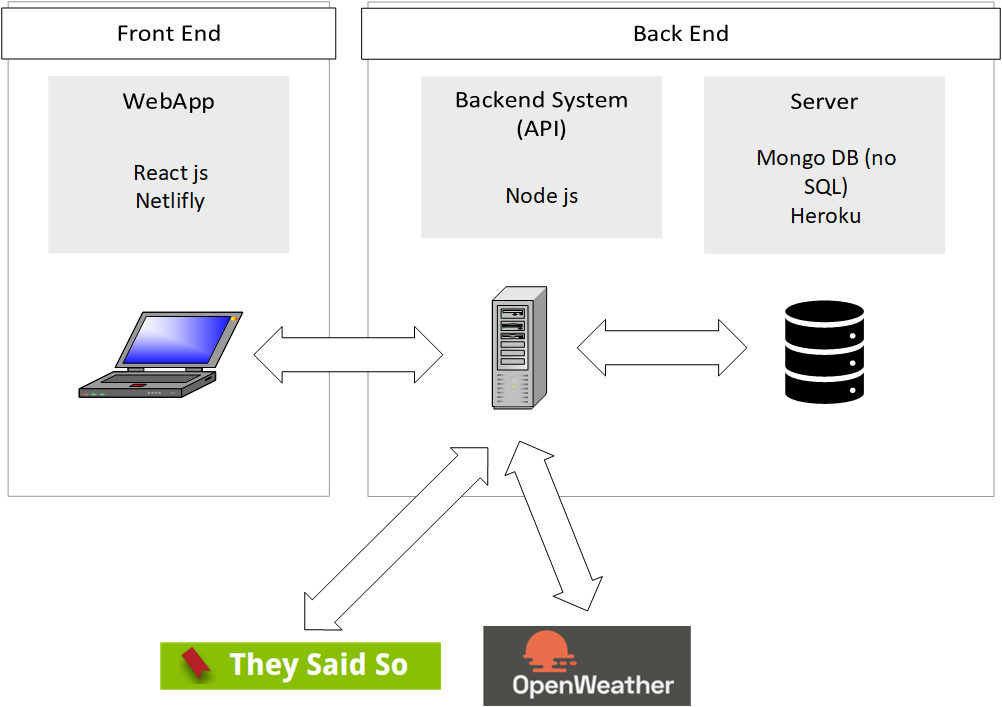
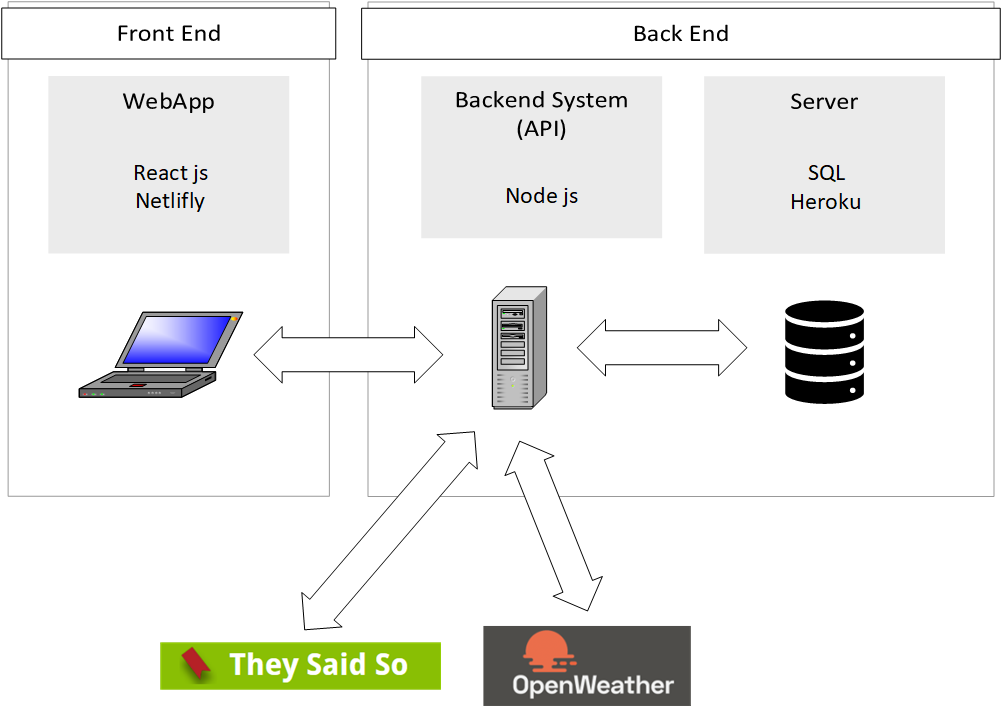
Change graphics readme and add mysql code

diff --git a/routes/index.js b/routes/index.js
@@ -12,42 +12,80 @@ router.get("/", function(req, res, next) {
 var superSecret = "costabrava";
 // route for authenticating users:
 router.post("/login", function(req, res, next) {
+  // store the inputs in variables easy to use:
   var name = req.body.userName;
   var password = req.body.userPassword;
+
   // find the user
-  db("SELECT * FROM user WHERE userName = (" + name + ") ;").then(result => {
-    res.send(result);
-  });
+  db("SELECT * FROM user WHERE userName = (" + name + ") ;").then(
+    resultUser => {
+      if (resultUser != name) {
+        es.status(404).send("User does not exist");
 
-  // var user = fakeUsers.filter(function(e) {
-  //   return e.userName == name;
-  // });
+        // if the user exists check the password
+      } else {
+        db(
+          "SELECT userPassword FROM user WHERE userName = (" + name + ");"
+        ).then(resultPassword => {
+          if (resultPassword != password) {
+            es.status(404).send("Wrong password");
 
-  // if (!user[0]) {
-  //   res.status(404).send("User does not exist");
-  // } else {
-  //   // check if password matches
-  //   if (user[0].userPassword !== password) {
-  //     res.status(404).send("Wrong password");
-  //   } else {
-  //     //if password is right and user is right, generate a token
-  //     var token = jwt.sign(
-  //       {
-  //         userId: user[0].id
-  //       },
-  //       superSecret
-  //       // {
-  //       //   expiresInMinutes: 1440 // expires in 24 hours
-  //       // }
-  //     );
-  //     // return the information including token as JSON
-  //     return res.json({
-  //       token: token,
-  //       message: "worked"
-  //     });
-  //   }
-  // }
+            // if password is also correct generate and send a token.
+          } else {
+            var token = jwt.sign(
+              {
+                userId: db(
+                  "SELECT id FROM user WHERE userName = (" + name + ");"
+                )
+              },
+              superSecret
+              // {
+              //   expiresInMinutes: 1440 // expires in 24 hours
+              // }
+            );
+            // return the information including token as JSON
+            return res.json({
+              token: token,
+              message: "worked"
+            });
+          }
+        });
+      }
+    }
+  );
 });
+
+// THIS CODE WORKS WITH DUMMY DATA
+
+// var user = fakeUsers.filter(function(e) {
+//   return e.userName == name;
+// });
+
+// if (!user[0]) {
+//   res.status(404).send("User does not exist");
+// } else {
+//   // check if password matches
+//   if (user[0].userPassword !== password) {
+//     res.status(404).send("Wrong password");
+//   } else {
+//     //if password is right and user is right, generate a token
+//     var token = jwt.sign(
+//       {
+//         userId: user[0].id
+//       },
+//       superSecret
+//       // {
+//       //   expiresInMinutes: 1440 // expires in 24 hours
+//       // }
+//     );
+//     // return the information including token as JSON
+//     return res.json({
+//       token: token,
+//       message: "worked"
+//     });
+//   }
+// }
+// )}
 
 // if user is found and password is right
 // create a token
